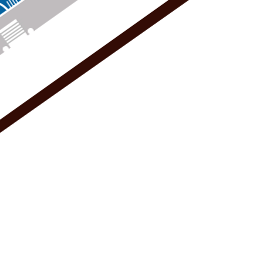
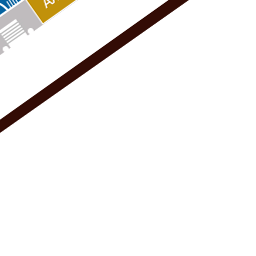
изменил карту

Changed region(s): [[0.0938, 0.0, 0.3125, 0.0938]]

diff --git a/src/assets/js/svg.js b/src/assets/js/svg.js
@@ -468,6 +468,16 @@
     '2v1.91C8.5 17.5 6.5 15.5 6.08 13H8v-2H6.09C6.5 8.5 8.5 6.5 11 6.08M12 11a1 1 0 0 0-1 1 1 1 0 0 0 1 1 1 1 0 0 0 1-1 1 '+
     '1 0 0 0-1-1z"/></symbol>'+
 
+    '<symbol viewBox="0 0 70 70" id="icon_auto"><title>auto</title><style>.st0{fil'+
+    'l:#FFF}</style><path class="st0" d="M68.5 40.7h-2c-.5-2.4-1.3-5.8-2.7-7.5-6.4-8.3-14.4-12.7-24.5-12.7-6.5 0-10.8.6-13'+
+    ' 1.9-.3.2-1.2.7-3.6 5.5-3.5.1-12.7.7-17.1 5.6-2.2 2.5-3.1 5.2-3.4 7.2h-.7c-.8 0-1.5.7-1.5 1.5s.7 1.5 1.5 1.5h.7v.2c.1'+
+    '.7.7 1.3 1.5 1.3h1.9c1.1 2.6 3.7 4.4 6.7 4.4s5.6-1.8 6.7-4.4h28.1c1.1 2.6 3.7 4.4 6.7 4.4s5.6-1.8 6.7-4.4h5c.8 0 1.5-'+
+    '.7 1.5-1.5h1.4c.8 0 1.5-.7 1.5-1.5.1-.8-.6-1.5-1.4-1.5zm-56.2 5.9c-2.4 0-4.4-2-4.4-4.4 0-2.4 2-4.4 4.4-4.4 2.4 0 4.4 '+
+    '2 4.4 4.4 0 2.4-2 4.4-4.4 4.4zm26.1-17.1c0 .4-.3.7-.7.7H26.2c-.3 0-.5-.1-.6-.3-.1-.2-.1-.5 0-.7.5-1.1 1.5-3 2-3.4 1.6'+
+    '-1 4.7-1.5 9.4-1.5h.8c.4 0 .7.3.7.7l-.1 4.5zm1.5 0v-4.3c0-.2.1-.4.2-.6.2-.1.4-.2.6-.2 5.2.6 9.2 2.3 10.7 4.6.2.2.2.5 '+
+    '0 .8-.1.2-.4.4-.7.4H40.6c-.4 0-.7-.3-.7-.7zm14 17.1c-2.4 0-4.4-2-4.4-4.4 0-2.4 2-4.4 4.4-4.4 2.4 0 4.4 2 4.4 4.4 0 2.'+
+    '4-2 4.4-4.4 4.4z"/></symbol>'+
+
     '</svg>';
 
   var svg = document.getElementById('svg-icons');

diff --git a/src/assets/css/common.css b/src/assets/css/common.css
@@ -670,6 +670,10 @@ textarea {
   width: 43px;
   height: 41px;
 }
+.b-main-teasers__icon_auto {
+  width: 72px;
+  height: 60px;
+}
 .b-main-teasers__h, .b-main-teasers__sub-h {
   letter-spacing: 1px;
   font-size: 1.3rem;
@@ -1103,11 +1107,11 @@ textarea {
 /* ---------------------------------------END--- */
 /* b-tabs */
 /* --------------------------------------------- */
-.b-tabs {
+/*.b-tabs {
   height: 100%;
-}
+}*/
 .b-tabs__item {
-  height: 100%;
+  /*height: 100%;*/
   padding-bottom: 0 !important;
 }
 .b-tabs__content {
@@ -2344,6 +2348,7 @@ textarea {
 .b-main-teasers__item_turist {background: #999900}
 .b-main-teasers__item_scena  {background: #666633}
 .b-main-teasers__item_tradi  {background: #009966}
+.b-main-teasers__item_auto   {background: #707070}
 .b-list__day-place {
   font-weight: normal;
   font-size: 1.3rem;

diff --git a/src/js/app/pushwoosh/android.js b/src/js/app/pushwoosh/android.js
@@ -1,3 +1,4 @@
+/* global cordova */
 'use strict';
 
 export default function registerPushwooshAndroid(
@@ -18,4 +19,5 @@ export default function registerPushwooshAndroid(
 
 	// register for push notifications
 	pushNotification.registerDevice(success, error);
+  pushNotification.setMultiNotificationMode(() => {}, () => {});
 }
